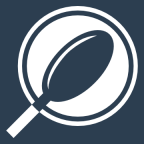
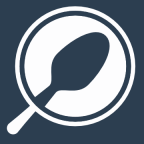
detect if user coords are out of state or if geolocation failed, in which case failback to Hatch.

Changed region(s): [[0.0556, 0.0278, 0.9722, 0.9722], [0.0278, 0.7778, 0.1667, 0.9167], [0.1667, 0.75, 0.1944, 0.7778]]

diff --git a/css/production.min.css b/css/production.min.css
@@ -1,1 +1,1 @@
-.ng-cloak,.x-ng-cloak,[data-ng-cloak],[ng-cloak],[ng\:cloak],[x-ng-cloak]{display:none!important}input,textarea{outline:0}.angular-google-map-container{height:100%;width:100%;position:absolute;top:0;left:0}body{color:#494949;font-family:"Source Sans Pro","Helvetica Neue",Helvetica,Arial,sans}.modalContainer{top:70px}.modal-title,.modalContainer h5{font-family:"Source Sans Pro";text-transform:uppercase;font-weight:700}.modal-title{font-size:1.25em;margin:0}.modal-subtitle{font-size:1.125em;margin:0}.modalContainer .defWrapper{background:#efefef;margin:0 0 1em}.modalContainer dl{margin:.25em 0}.modalContainer dt{font-size:1.5em;line-height:1.5em;display:inline;margin-right:.25em}.modalContainer dd{line-height:1.5em;display:inline}.modal-footer form{text-align:left}.modal-footer form input{margin-right:.5em}header{background:#2C3E50;position:relative;z-index:10;border-bottom:1px solid #ccc;text-align:center;min-height:60px}center{padding:10px}header a{color:#ECF0F1;text-decoration:none}header #logo{display:inline-block;text-align:left;margin:0;margin-right:.5em}header .minilogo{background:#00f;text-align:left}header .minilogo img{display:inline-block}header a:focus,header a:hover{color:#ECF0F1;text-decoration:none}header a h1{margin:.5em 0;font-size:1.1em;line-height:2.75em;font-weight:900;text-transform:uppercase;display:inline-block;text-align:left}header #searchbar{background:#3A546D;border-left:1px solid #43617E;height:60px;text-align:right}header #searchbar .listIcon{color:#fff;font-size:2em;margin:0 .33em;padding:15px 0}header #search .listIcon{margin:0}#geolocateButton{position:fixed;top:auto;left:auto;bottom:.5em;right:.5em;height:2em;width:2em;border-radius:100%;text-align:center;line-height:2em;font-size:2em;color:#fff;z-index:1;background:#3A546D}header .listIcon:last-of-type{margin-right:0}header #search{position:absolute;z-index:1131;display:block;text-align:right;background:#3A546D;height:60px;padding:14px 0;width:100%}#exitButton{padding:8px!important;position:relative;right:.5em;font-size:1.5em!important;color:#fff}#search button,#search input{height:36px}#search input{border:none;border-top-right-radius:0;border-bottom-right-radius:0}#search button{border-top-left-radius:0;border-bottom-left-radius:0}#main{margin-top:60px}#main ul{padding:0;list-style-type:none}#main.container,#main.container-fluid{padding:0}#output{background:#fff}#searchResults{background:#fff;z-index:10}#nottalink{position:absolute;left:-9999px}#nottalink:focus{background:orange}#searchResults ul li{padding:10px 0;min-height:60px;border-bottom:1px solid #ccc;background:#fff}#searchResults ul li a{color:#3498DB}#listView ul li a:focus,#searchResults ul li a:active{background:orange}#searchResults ul li .restaurant-name{font-size:1.25em;line-height:.95em;font-weight:600;margin:0;clear:both}#searchResults ul li .restaurant-score{font-size:3em;line-height:.75em;font-weight:400;color:#666;text-align:right}#searchResults .distance{color:#999!important;margin:0}#restaurantDetailView{height:75%;width:100%;position:fixed;bottom:8px;overflow-y:scroll;z-index:1}#restuarant-info{font-family:Bitter;background-color:rgba(255,255,255,.75);position:relative}a.close{position:absolute;top:.5em;right:.5em;font-size:2em;color:red}#restaurantInfo{position:relative}#restaurantInfo h1{margin-bottom:0}#restaurantInfo .address{color:#666}#violationKey{padding:.75em;border:1px solid #dfdfdf}#violationKey h4{margin:0}#violationKey ul{margin:.5em 0 0}#violationKey li{position:relative;padding-left:1.5em}#violationKey i{position:absolute;top:3px;left:0}#inspections .inspection{margin-bottom:1em;border:1px solid #dfdfdf;padding:1em;background:#fff}.inspection h2{margin:0}.inspection .date{font-size:1.25em;color:#777}ul.violations{margin-bottom:1em;display:inline-block;vertical-align:top}li.critical,li.repeat,li.violation{display:inline-block;margin:.5em 0;margin-right:.25em;color:#fff}li.critical i,li.repeat i,li.violation i{height:2em;width:2em;line-height:2em;text-align:center;font-size:1.5em;border-radius:100%;background:#efefef}li.violation.active i{color:green;background:#90ee90}li.critical.active i,li.repeat.active i{color:red;background:#e9967a}li.code{font-size:1.25em;font-weight:700}li.observation{width:90%}@media screen and (min-width:776px){header{text-align:left}header h1{font-size:2em;line-height:60px;margin:0}header img{margin-top:1em}#main.container{padding-top:2em}.angular-google-map-container{height:100%;width:100%;position:absolute;top:0;left:0}#searchResults{position:fixed;top:60px;right:0;max-height:500px;z-index:1029;overflow-y:scroll}#searchResults .row{margin-bottom:0}#restuarantDetailView{position:relative}.inspection h2{font-family:Bitter;font-size:1.5em}.inspection h3{margin-top:2px;font-size:1em;color:gray;font-family:Bitter}.inspection h4{color:green}#restaurantDetailView .angular-google-map-container{height:250px}}
+.ng-cloak,.x-ng-cloak,[data-ng-cloak],[ng-cloak],[ng\:cloak],[x-ng-cloak]{display:none!important}input,textarea{outline:0}.angular-google-map-container{height:100%;width:100%;position:absolute;top:0;left:0}body{color:#494949;font-family:"Source Sans Pro","Helvetica Neue",Helvetica,Arial,sans}.modalContainer{top:70px}.modal-title,.modalContainer h5{font-family:"Source Sans Pro";text-transform:uppercase;font-weight:700}.modal-title{font-size:1.25em;margin:0}.modal-subtitle{font-size:1.125em;margin:0}.modalContainer .defWrapper{background:#efefef;margin:0 0 1em}.modalContainer dl{margin:.25em 0}.modalContainer dt{font-size:1.5em;line-height:1.5em;display:inline;margin-right:.25em}.modalContainer dd{line-height:1.5em;display:inline}.modal-footer form{text-align:left}.modal-footer form input{margin-right:.5em}header{background:#2C3E50;position:relative;z-index:10;border-bottom:1px solid #ccc;text-align:center;min-height:60px}center{padding:10px}header a{color:#ECF0F1;text-decoration:none}header #logo{display:inline-block;text-align:left;margin:0;margin-right:.25em}header .minilogo{background:#00f;text-align:left}header .minilogo img{display:inline-block}header a:focus,header a:hover{color:#ECF0F1;text-decoration:none}header a h1{margin:.5em 0;font-size:1.1em;line-height:2.75em;font-weight:900;text-transform:uppercase;display:inline-block;text-align:left}header #searchbar{background:#3A546D;border-left:1px solid #43617E;height:60px;text-align:right}header #searchbar .listIcon{color:#fff;font-size:2em;margin:0 .33em;padding:15px 0}header #search .listIcon{margin:0}#geolocateButton{position:fixed;top:auto;left:auto;bottom:.5em;right:.5em;height:2em;width:2em;border-radius:100%;text-align:center;line-height:2em;font-size:2em;color:#fff;z-index:1;background:#3A546D}header .listIcon:last-of-type{margin-right:0}header #search{position:absolute;z-index:1131;display:block;text-align:right;background:#3A546D;height:60px;padding:14px 0;width:100%}#exitButton{padding:8px!important;position:relative;right:.5em;font-size:1.5em!important;color:#fff}#search button,#search input{height:36px}#search input{border:none;border-top-right-radius:0;border-bottom-right-radius:0}#search button{border-top-left-radius:0;border-bottom-left-radius:0}#main{margin-top:60px}#main ul{padding:0;list-style-type:none}#main.container,#main.container-fluid{padding:0}#output{background:#fff}#searchResults{background:#fff;z-index:10}#nottalink{position:absolute;left:-9999px}#nottalink:focus{background:orange}#searchResults ul li{padding:10px 0;min-height:60px;border-bottom:1px solid #ccc;background:#fff}#searchResults ul li a{color:#3498DB}#listView ul li a:focus,#searchResults ul li a:active{background:orange}#searchResults ul li .restaurant-name{font-size:1.25em;line-height:.95em;font-weight:600;margin:0;clear:both}#searchResults ul li .restaurant-score{font-size:3em;line-height:.75em;font-weight:400;color:#666;text-align:right}#searchResults .distance{color:#999!important;margin:0}#restaurantDetailView{height:75%;width:100%;position:fixed;bottom:8px;overflow-y:scroll;z-index:1}#restuarant-info{font-family:Bitter;background-color:rgba(255,255,255,.75);position:relative}a.close{position:absolute;top:.5em;right:.5em;font-size:2em;color:red}#restaurantInfo{position:relative}#restaurantInfo h1{margin-bottom:0}#restaurantInfo .address{color:#666}#violationKey{padding:.75em;border:1px solid #dfdfdf}#violationKey h4{margin:0}#violationKey ul{margin:.5em 0 0}#violationKey li{position:relative;padding-left:1.5em}#violationKey i{position:absolute;top:3px;left:0}#inspections .inspection{margin-bottom:1em;border:1px solid #dfdfdf;padding:1em;background:#fff}.inspection h2{margin:0}.inspection .date{font-size:1.25em;color:#777}ul.violations{margin-bottom:1em;display:inline-block;vertical-align:top}li.critical,li.repeat,li.violation{display:inline-block;margin:.5em 0;margin-right:.25em;color:#fff}li.critical i,li.repeat i,li.violation i{height:2em;width:2em;line-height:2em;text-align:center;font-size:1.5em;border-radius:100%;background:#efefef}li.violation.active i{color:green;background:#90ee90}li.critical.active i,li.repeat.active i{color:red;background:#e9967a}li.code{font-size:1.25em;font-weight:700}li.observation{width:90%}@media screen and (min-width:776px){header{text-align:left}header h1{font-size:2em;line-height:60px;margin:0}header img{margin-top:1em}#main.container{padding-top:2em}.angular-google-map-container{height:100%;width:100%;position:absolute;top:0;left:0}#searchResults{position:fixed;top:60px;right:0;max-height:500px;z-index:1029;overflow-y:scroll}#searchResults .row{margin-bottom:0}#restuarantDetailView{position:relative}.inspection h2{font-family:Bitter;font-size:1.5em}.inspection h3{margin-top:2px;font-size:1em;color:gray;font-family:Bitter}.inspection h4{color:green}#restaurantDetailView .angular-google-map-container{height:250px}}

diff --git a/dist/production.js b/dist/production.js
@@ -55,7 +55,7 @@ openHealthDataAppControllers.controller('mapCtrl', ['$scope', '$rootScope', '$ht
         }
     };
 
-    console.log(Geosearch.map);
+    // console.log(Geosearch.map);
 
     $scope.dist = 1000;
 
@@ -70,8 +70,8 @@ openHealthDataAppControllers.controller('mapCtrl', ['$scope', '$rootScope', '$ht
       if ( ((position.coords.latitude > 36.533333 ) &&
            (position.coords.latitude < 39.466667 ) )
           &&
-          ((position.coords.longitude > 75.25 ) &&
-           (position.coords.longitude < 83.683333 ) ) ) {
+          ((position.coords.longitude < -75.25 ) &&
+           (position.coords.longitude > -83.683333 ))) {
         
         console.log('coordinates are within Virgina');
 
@@ -81,7 +81,8 @@ openHealthDataAppControllers.controller('mapCtrl', ['$scope', '$rootScope', '$ht
         }
 
       } else {
-        console.log('out of state');
+        console.log('Coming from out of state, so falling back to Norfolk.');
+
       }
 
       $scope.results = 
@@ -140,7 +141,7 @@ openHealthDataAppControllers.controller('mapCtrl', ['$scope', '$rootScope', '$ht
 
     $rootScope.open = function (size) {
 
-      console.log('open modal');
+      // console.log('open modal');
       var modalInstance = $modal.open({
         templateUrl: 'partials/modal.html',
         controller: ModalInstanceCtrl,

diff --git a/js/controllers.js b/js/controllers.js
@@ -36,7 +36,7 @@ openHealthDataAppControllers.controller('mapCtrl', ['$scope', '$rootScope', '$ht
         }
     };
 
-    console.log(Geosearch.map);
+    // console.log(Geosearch.map);
 
     $scope.dist = 1000;
 
@@ -51,8 +51,8 @@ openHealthDataAppControllers.controller('mapCtrl', ['$scope', '$rootScope', '$ht
       if ( ((position.coords.latitude > 36.533333 ) &&
            (position.coords.latitude < 39.466667 ) )
           &&
-          ((position.coords.longitude > 75.25 ) &&
-           (position.coords.longitude < 83.683333 ) ) ) {
+          ((position.coords.longitude < -75.25 ) &&
+           (position.coords.longitude > -83.683333 ))) {
         
         console.log('coordinates are within Virgina');
 
@@ -62,7 +62,8 @@ openHealthDataAppControllers.controller('mapCtrl', ['$scope', '$rootScope', '$ht
         }
 
       } else {
-        console.log('out of state');
+        console.log('Coming from out of state, so falling back to Norfolk.');
+
       }
 
       $scope.results = 
@@ -121,7 +122,7 @@ openHealthDataAppControllers.controller('mapCtrl', ['$scope', '$rootScope', '$ht
 
     $rootScope.open = function (size) {
 
-      console.log('open modal');
+      // console.log('open modal');
       var modalInstance = $modal.open({
         templateUrl: 'partials/modal.html',
         controller: ModalInstanceCtrl,

diff --git a/index.html b/index.html
@@ -39,7 +39,7 @@
 
           <div class="hidden-xs col-sm-9">
             <a href="#/">
-              <img id="logo" src="img/build/logo.png" alt="Open Health Inspection Logo">
+              <img id="logo" src="img/build/logo.png" height="36px" width="36px" alt="Open Health Inspection Logo">
               <h1>Open Health Inspection</h1>
             </a>
           </div>

diff --git a/css/main.css b/css/main.css
@@ -77,7 +77,7 @@ center {
 			display: inline-block;
 			text-align: left;
 			margin: 0;
-			margin-right: .5em;
+			margin-right: .25em;
 		}
 		header .minilogo {
 			background: blue;

diff --git a/css/production.css b/css/production.css
@@ -77,7 +77,7 @@ center {
 			display: inline-block;
 			text-align: left;
 			margin: 0;
-			margin-right: .5em;
+			margin-right: .25em;
 		}
 		header .minilogo {
 			background: blue;
